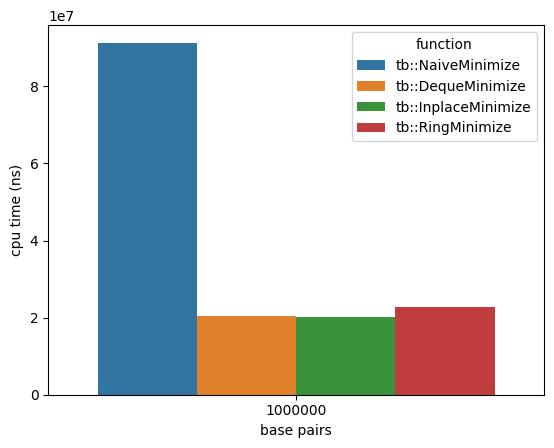
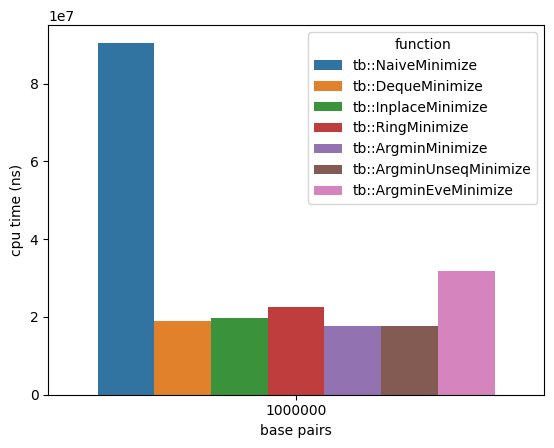
armin: use eve for SIMD min_element

diff --git a/src/algo.cc b/src/algo.cc
@@ -4,6 +4,10 @@
 #include <algorithm>
 #include <cassert>
 #include <deque>
+#include <execution>
+#include <span>
+
+#include "eve/module/algo.hpp"
 
 namespace tb {
 
@@ -204,29 +208,92 @@ std::vector<KMer> RingMinimize(MinimizeArgs args) {
   return dst;
 }
 
-std::vector<KMer> ArgminMinimize(MinimizeArgs args) {
+namespace {
+
+enum class ArgMinImpl { Seq, Unseq };
+
+template <ArgMinImpl ImplTag>
+std::vector<KMer> ArgminMinimizeImpl(MinimizeArgs args) {
+  auto min_element = [] consteval {
+    using Iter = std::vector<KMer::value_type>::iterator;
+    if constexpr (ImplTag == ArgMinImpl::Seq) {
+      return [](Iter first, Iter last) {
+        return std::min_element(std::execution::seq, first, last);
+      };
+    } else {
+      return [](Iter first, Iter last) {
+        return std::min_element(std::execution::unseq, first, last);
+      };
+    }
+  }();
+
   std::vector<KMer> dst;
   if (args.seq.size() < args.window_length + args.kmer_length - 2) {
     return dst;
   }
 
-  dst.reserve(args.seq.size());
+  dst.resize(args.seq.size());
   auto const mask = calc_mask(args.kmer_length);
 
   KMer::value_type value;
+  std::vector<KMer::value_type> hashes;
   for (std::size_t i = 0; i < args.seq.size(); ++i) {
     value = ((value << 2) | args.seq.Code(i)) & mask;
     if (i >= args.kmer_length - 1) {
-      dst.emplace_back(hash(value, mask), i - (args.kmer_length - 1), 0);
+      hashes.push_back(hash(value, mask));
     }
   }
 
   std::int64_t idx = -1;
-  for (std::size_t i = args.window_length; i <= dst.size(); ++i) {
-    if (auto min_iter = std::min_element(dst.begin() + i - args.window_length,
-                                         dst.begin() + i);
-        idx == -1 || dst[idx].position() != min_iter->position()) {
-      dst[++idx] = *min_iter;
+  for (std::size_t i = args.window_length; i <= hashes.size(); ++i) {
+    if (auto min_pos = min_element(hashes.begin() + i - args.window_length,
+                                   hashes.begin() + i) -
+                       hashes.begin();
+        idx == -1 || dst[idx].position() != min_pos) {
+      dst[++idx] = KMer(hashes[min_pos], min_pos, 0);
+    }
+  }
+
+  dst.resize(idx + 1);
+  return dst;
+}
+
+} // namespace
+
+std::vector<KMer> ArgminMinimize(MinimizeArgs args) {
+  return ArgminMinimizeImpl<ArgMinImpl::Seq>(args);
+}
+
+std::vector<KMer> ArgminUnseqMinimize(MinimizeArgs args) {
+  return ArgminMinimizeImpl<ArgMinImpl::Unseq>(args);
+}
+
+std::vector<KMer> ArgminEveMinimize(MinimizeArgs args) {
+  std::vector<KMer> dst;
+  if (args.seq.size() < args.window_length + args.kmer_length - 2) {
+    return dst;
+  }
+
+  dst.resize(args.seq.size());
+  auto const mask = calc_mask(args.kmer_length);
+
+  KMer::value_type value;
+  std::vector<KMer::value_type> hashes;
+  for (std::size_t i = 0; i < args.seq.size(); ++i) {
+    value = ((value << 2) | args.seq.Code(i)) & mask;
+    if (i >= args.kmer_length - 1) {
+      hashes.push_back(hash(value, mask));
+    }
+  }
+
+  std::int64_t idx = -1;
+  for (std::size_t i = args.window_length; i <= hashes.size(); ++i) {
+    auto window =
+        std::span(hashes.begin() + i - args.window_length, hashes.begin() + i);
+    if (auto min_pos = eve::algo::min_element(window) - window.begin() + i -
+                       args.window_length;
+        idx == -1 || dst[idx].position() != min_pos) {
+      dst[++idx] = KMer(hashes[min_pos], min_pos, 0);
     }
   }
 

diff --git a/src/test.cc b/src/test.cc
@@ -56,3 +56,17 @@ TEST_F(MinimizeTest, ArgminVsNaive) {
 
   EXPECT_EQ(naive_minimizers, argmin_minimizers);
 }
+
+TEST_F(MinimizeTest, ArgminUnseqVsNaive) {
+  auto naive_minimizers = tb::NaiveMinimize(args_);
+  auto argmin_minimizers = tb::ArgminUnseqMinimize(args_);
+
+  EXPECT_EQ(naive_minimizers, argmin_minimizers);
+}
+
+TEST_F(MinimizeTest, ArgminEveVsNaive) {
+  auto naive_minimizers = tb::NaiveMinimize(args_);
+  auto argmin_minimizers = tb::ArgminEveMinimize(args_);
+
+  EXPECT_EQ(naive_minimizers, argmin_minimizers);
+}

diff --git a/src/bench.cc b/src/bench.cc
@@ -24,5 +24,7 @@ BENCHMARK_TEMPLATE(BM_MinimizeW5K15, tb::DequeMinimize)->Arg(kNBases);
 BENCHMARK_TEMPLATE(BM_MinimizeW5K15, tb::InplaceMinimize)->Arg(kNBases);
 BENCHMARK_TEMPLATE(BM_MinimizeW5K15, tb::RingMinimize)->Arg(kNBases);
 BENCHMARK_TEMPLATE(BM_MinimizeW5K15, tb::ArgminMinimize)->Arg(kNBases);
+BENCHMARK_TEMPLATE(BM_MinimizeW5K15, tb::ArgminUnseqMinimize)->Arg(kNBases);
+BENCHMARK_TEMPLATE(BM_MinimizeW5K15, tb::ArgminEveMinimize)->Arg(kNBases);
 
 } // namespace

diff --git a/include/tb/algo.hpp b/include/tb/algo.hpp
@@ -15,5 +15,7 @@ std::vector<KMer> DequeMinimize(MinimizeArgs);
 std::vector<KMer> InplaceMinimize(MinimizeArgs);
 std::vector<KMer> RingMinimize(MinimizeArgs);
 std::vector<KMer> ArgminMinimize(MinimizeArgs);
+std::vector<KMer> ArgminUnseqMinimize(MinimizeArgs);
+std::vector<KMer> ArgminEveMinimize(MinimizeArgs);
 
 } // namespace tb

diff --git a/README.md b/README.md
@@ -5,11 +5,13 @@ Different implementations for finding robust random minimizers in genomic data.
 
 ### Dependencites
 - C++20 compliant compiler
+  - Support for [C++17 execution policy](https://en.cppreference.com/w/cpp/algorithm/execution_policy_tag_t)
 - CMake
 - git
 
 - [googletest](https://github.com/google/googletest)
 - [benchmark](https://github.com/google/benchmark)
+- [eve](https://github.com/jfalcou/eve)
 
 ### Build
 ```bash
@@ -32,13 +34,15 @@ cmake --build build
 - locked at 2.5Ghz
 
 ### Figures
-| function            |   avg ns per bp |
-|:--------------------|----------------:|
-| tb::NaiveMinimize   |         91.3057 |
-| tb::RingMinimize    |         22.7854 |
-| tb::DequeMinimize   |         20.4661 |
-| tb::InplaceMinimize |         20.147  |
-
+| function                |   avg ns per bp |
+|:------------------------|----------------:|
+| tb::NaiveMinimize       |         90.51   |
+| tb::ArgminEveMinimize   |         31.9355 |
+| tb::RingMinimize        |         22.4501 |
+| tb::InplaceMinimize     |         19.7748 |
+| tb::DequeMinimize       |         19.0838 |
+| tb::ArgminUnseqMinimize |         17.7876 |
+| tb::ArgminMinimize      |         17.773  |
 ![](misc/perf.png)
 
 ## Reference
